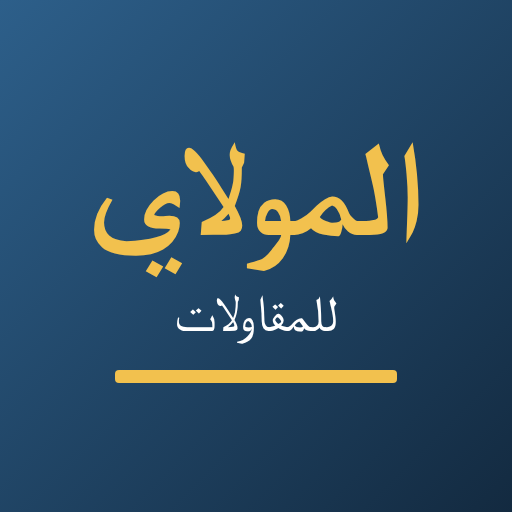
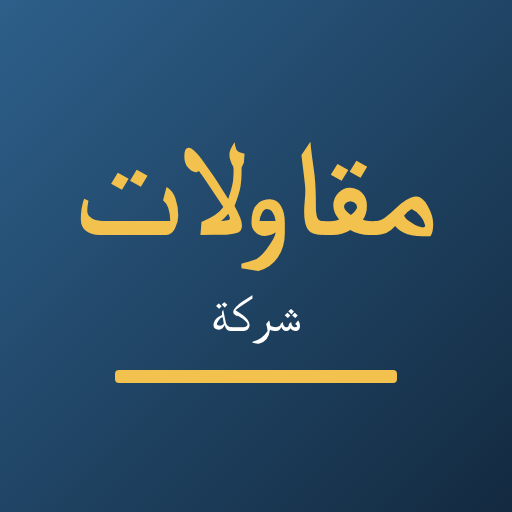
اسم التطبيق: شركة مقاولات
Claude-Session: https://claude.ai/code/session_01CprLEt73kXEQvS1RUHdgSR

diff --git a/index.html b/index.html
@@ -1,7 +1,7 @@
 <!doctype html>
 <html lang="ar" dir="rtl"><head><meta charset="utf-8">
 <meta name="viewport" content="width=device-width,initial-scale=1,viewport-fit=cover">
-<title>شركة المولاي</title>
+<title>شركة مقاولات</title>
 <meta name="theme-color" content="#1c3a5a"><meta name="mobile-web-app-capable" content="yes">
 <link rel="manifest" href="manifest.json"><link rel="icon" href="icon-192.png"><link rel="apple-touch-icon" href="icon-192.png">
 <link rel="preconnect" href="https://fonts.googleapis.com"><link rel="preconnect" href="https://fonts.gstatic.com" crossorigin>
